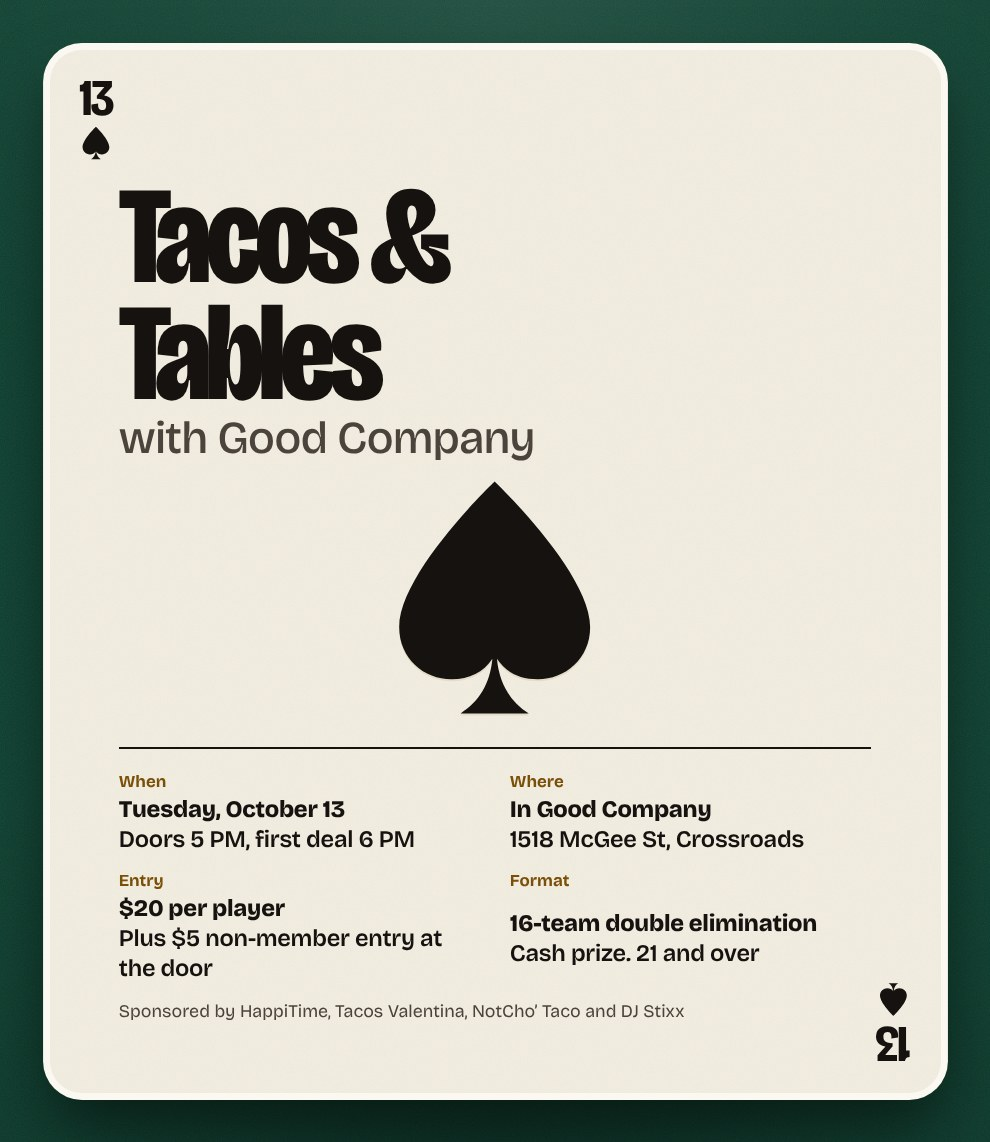
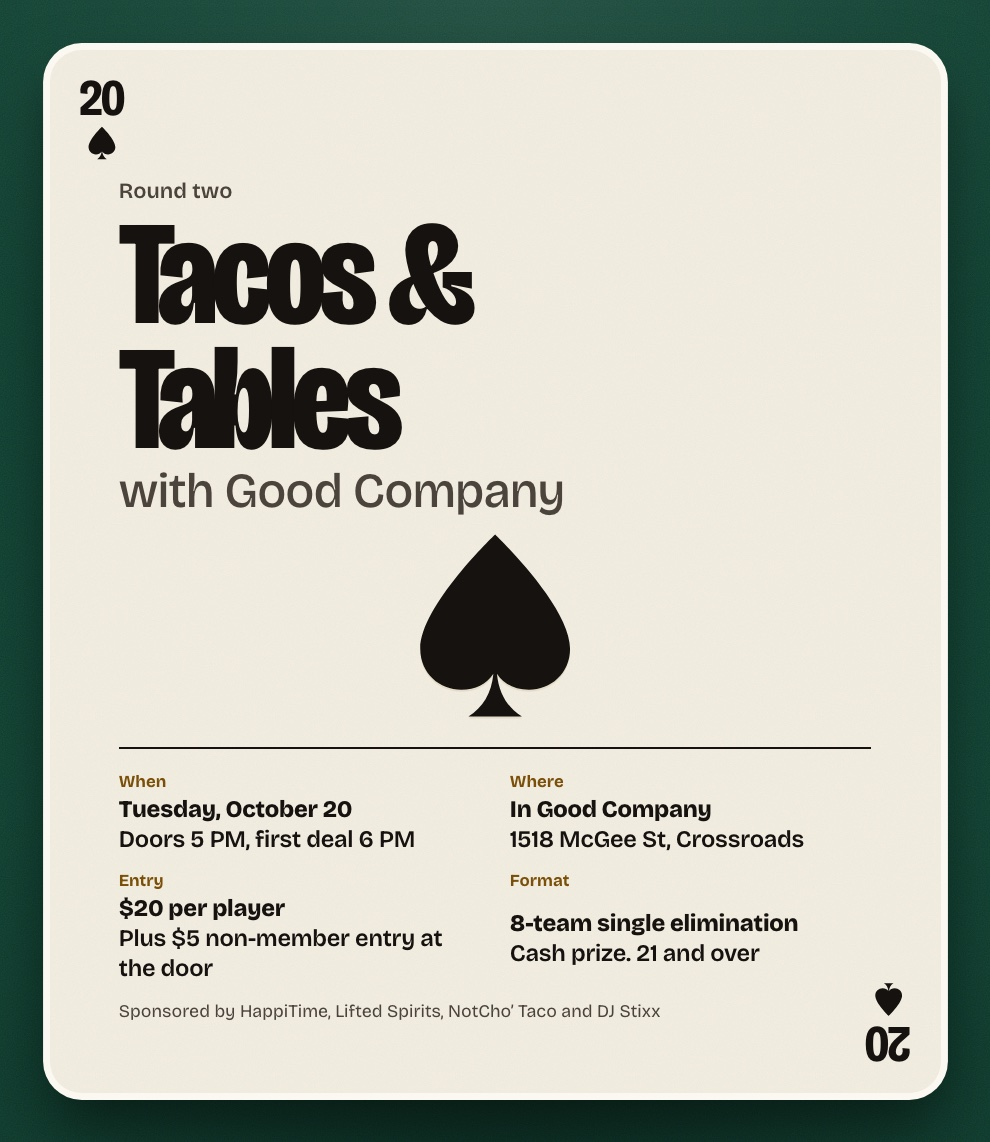
feat(directory): Tacos & Tables round two, Oct 20 — 8-team single elim, mobile + email-or-handle registration
- event.ts re-dated to Tue Oct 20 (registration closes end of Mon Oct 19), 8 teams on 4 tables,
  single elimination, sponsors HappiTime / Lifted Spirits / NotCho' Taco / DJ Stixx
- Register.tsx: mobile required; email OR an Instagram/TikTok handle required (payload key
  `social` replaces `instagram`); all dates read from event.ts; ticket stub shows Oct 20
- page.tsx + /sponsored-events card: copy, metadata and card-corner index updated
- cover.jpg / og.jpg re-rendered with the 20 of spades
- Apps Script companion (new version, same /exec URL) lives in
  My Assistant/outreach/2026-10-16_spades-oct20/registration-sheet-script.gs

Claude-Session: https://claude.ai/code/session_018ERENMA48hdRLapwesaor8

diff --git a/apps/directory/src/app/sponsored-events/tacos-and-tables/Register.tsx b/apps/directory/src/app/sponsored-events/tacos-and-tables/Register.tsx
@@ -59,8 +59,15 @@ export function Register() {
     const next: Errors = {};
     if (!v("first")) next.first = "Add your first name.";
     if (!v("last")) next.last = "Add your last name.";
-    if (!EMAIL.test(v("email"))) next.email = "Enter an email like name@example.com.";
+    // Mobile is required. Email OR a social handle is required, so we can reach you.
     if (digits(v("phone")).length !== 10) next.phone = "Enter a 10-digit mobile number.";
+    const social = v("social").replace(/^@+/, "");
+    if (v("email") && !EMAIL.test(v("email"))) {
+      next.email = "Enter an email like name@example.com, or leave it blank and add a handle.";
+    } else if (!v("email") && !social) {
+      next.email = "Add an email, or an Instagram or TikTok handle below. We need one to reach you.";
+      next.social = "Add a handle here, or an email above.";
+    }
     if (entry === "team") {
       if (!v("partnerFirst")) next.partnerFirst = "Add your partner's first name.";
       if (!v("partnerLast")) next.partnerLast = "Add your partner's last name.";
@@ -78,7 +85,7 @@ export function Register() {
 
     const partner = entry === "team" ? `${v("partnerFirst")} ${v("partnerLast")}` : "";
     const data = {
-      event: "Tacos & Tables with Good Company — Spades Tournament (2026-10-13)",
+      event: "Tacos & Tables with Good Company — Spades Tournament (2026-10-20)",
       entry_type: entry,
       team_name: entry === "team" ? v("teamName") : "",
       first: v("first"),
@@ -88,7 +95,7 @@ export function Register() {
       partner_first: entry === "team" ? v("partnerFirst") : "",
       partner_last: entry === "team" ? v("partnerLast") : "",
       partner_phone: entry === "team" ? prettyPhone(v("partnerPhone")) : "",
-      instagram: v("instagram"),
+      social: social ? "@" + social : "",
       players: entry === "team" ? 2 : 1,
       amount_due: amount,
       age_ack: true,
@@ -154,7 +161,7 @@ export function Register() {
       <div className="panel" id="register">
         <h2>Registration is closed</h2>
         <p className="lede">
-          Registration ended Monday, October 12. If a table opens up, walk-ups are taken at
+          Registration ended {EVENT.closesLabel}. If a table opens up, walk-ups are taken at
           the door from {EVENT.doors}, cash or Cash App, first come first served.
         </p>
         {EVENT.contactPhone && (
@@ -191,16 +198,16 @@ export function Register() {
               </ul>
               <p>
                 Put <strong>Spades {done.last}</strong> in the note so we can match it.
-                Your spot is confirmed once the payment lands. Unpaid registrations are
-                released after October 12. Non-members of {EVENT.venue} pay ${EVENT.nonMemberEntry}{" "}
-                entry at the door.
+                Your spot is confirmed once the payment lands and we&rsquo;ll let you know by
+                email or text. Unpaid registrations are released after {EVENT.closesShort}.
+                Non-members of {EVENT.venue} pay ${EVENT.nonMemberEntry} entry at the door.
               </p>
             </>
           ) : (
             <p>
               Watch your phone: payment instructions are on the way by text. Your spot
               is confirmed once the ${done.amount} lands. Unpaid registrations are released
-              after October 12.
+              after {EVENT.closesShort}.
             </p>
           )}
         </div>
@@ -217,8 +224,8 @@ export function Register() {
             <span>{EVENT.venue}, {EVENT.area}</span>
           </div>
           <div className="stub">
-            <small>Oct</small>
-            <strong>13</strong>
+            <small>{EVENT.monthShort}</small>
+            <strong>{EVENT.dayNumber}</strong>
           </div>
         </div>
 
@@ -255,7 +262,7 @@ export function Register() {
     <div className="panel" id="register">
       <div className="panel-head">
         <h2>Register</h2>
-        <p>Closes Monday, October 12</p>
+        <p>Closes {EVENT.closesLabel}</p>
       </div>
 
       <form ref={formRef} onSubmit={onSubmit} noValidate>
@@ -291,15 +298,22 @@ export function Register() {
           {field("first", "First name", { autoComplete: "given-name", required: true })}
           {field("last", "Last name", { autoComplete: "family-name", required: true })}
         </div>
+        {field("phone", "Mobile", {
+          type: "tel",
+          autoComplete: "tel",
+          inputMode: "tel",
+          placeholder: "(816) 555-0123",
+          required: true,
+          onBlur: (e) => (e.currentTarget.value = prettyPhone(e.currentTarget.value)),
+        })}
+        <p className="fine reach">One of these two, so we can reach you about the bracket:</p>
         <div className="row">
-          {field("email", "Email", { type: "email", autoComplete: "email", inputMode: "email", required: true })}
-          {field("phone", "Mobile", {
-            type: "tel",
-            autoComplete: "tel",
-            inputMode: "tel",
-            placeholder: "(816) 555-0123",
-            required: true,
-            onBlur: (e) => (e.currentTarget.value = prettyPhone(e.currentTarget.value)),
+          {field("email", "Email", { type: "email", autoComplete: "email", inputMode: "email" })}
+          {field("social", "Instagram or TikTok", {
+            placeholder: "@yourhandle",
+            autoCapitalize: "off",
+            spellCheck: false,
+            autoComplete: "off",
           })}
         </div>
 
@@ -325,8 +339,6 @@ export function Register() {
             </div>
           </div>
         )}
-
-        {field("instagram", "Instagram", { placeholder: "@yourhandle", autoCapitalize: "off", spellCheck: false }, true)}
 
         <div className={`check${errors.ageAck ? " invalid" : ""}`}>
           <label>
@@ -372,7 +384,7 @@ export function Register() {
         <p className="fine">
           Your details go to HappiTime and the night&rsquo;s hosts to run the bracket and
           match your payment. Spots are confirmed when the entry fee lands; unpaid
-          registrations are released after October 12.
+          registrations are released after {EVENT.closesShort}.
         </p>
       </form>
     </div>

diff --git a/apps/directory/src/app/sponsored-events/tacos-and-tables/event.ts b/apps/directory/src/app/sponsored-events/tacos-and-tables/event.ts
@@ -1,19 +1,24 @@
-// Tacos & Tables with Good Company — Spades tournament, Tuesday October 13, 2026.
-// Everything editable about the event lives here. The page, the form and the
-// confirmation copy all read from this file.
+// Tacos & Tables with Good Company — Spades tournament, round two.
+// Tuesday October 20, 2026. Everything editable about the event lives here. The
+// page, the form and the confirmation copy all read from this file.
 
 export const EVENT = {
   slug: "tacos-and-tables",
   title: "Tacos & Tables",
   subtitle: "with Good Company",
-  tagline: "Spades tournament night",
+  tagline: "Spades tournament night · round two",
   /** ISO timestamps with Central offset (CDT). */
-  starts: "2026-10-13T17:00:00-05:00",
-  ends: "2026-10-13T21:30:00-05:00",
-  /** Registration closes at the end of Monday, October 12 (Central). */
-  registrationCloses: "2026-10-13T00:00:00-05:00",
-  dateLabel: "Tuesday, October 13",
-  dateLong: "Tuesday, October 13, 2026",
+  starts: "2026-10-20T17:00:00-05:00",
+  ends: "2026-10-20T21:00:00-05:00",
+  /** Registration closes at the end of Monday, October 19 (Central). */
+  registrationCloses: "2026-10-20T00:00:00-05:00",
+  closesLabel: "Monday, October 19",
+  closesShort: "October 19",
+  dateLabel: "Tuesday, October 20",
+  dateLong: "Tuesday, October 20, 2026",
+  /** Card-corner index and ticket stub. */
+  dayNumber: "20",
+  monthShort: "Oct",
   doors: "5:00 PM",
   firstDeal: "6:00 PM",
   venue: "In Good Company",
@@ -23,10 +28,12 @@ export const EVENT = {
   entryFee: 20,
   /** In Good Company door cover for non-members, paid at the door to the venue. */
   nonMemberEntry: 5,
-  teamCap: 16,
-  tables: 8,
+  /** 8 teams, single elimination: three rounds, done in about two hours. */
+  teamCap: 8,
+  tables: 4,
+  formatLabel: "8-team single elimination",
   ageMin: 21,
-  sponsors: ["HappiTime", "Tacos Valentina", "NotCho' Taco", "DJ Stixx"],
+  sponsors: ["HappiTime", "Lifted Spirits", "NotCho' Taco", "DJ Stixx"],
 
   /**
    * Where to send the entry fee. Leave a handle empty to hide it.
@@ -53,14 +60,15 @@ export const EVENT = {
 /**
  * Where registrations are sent. Empty = preview mode (nothing is stored and
  * the confirmation screen says so). Set to the Google Apps Script web-app URL
- * from My Assistant/outreach/2026-10-09_tacos-and-tables-registration/.
+ * from My Assistant/outreach/2026-10-16_spades-oct20/ (same deployment as
+ * October 13, updated to a new version; the URL does not change).
  */
 export const REGISTRATION_ENDPOINT =
   "https://script.google.com/macros/s/AKfycbxwnqc49RUdlgyc6TZOtza7MZHXRIHy6FJPwg79dRwLzU0IpmSPgIx8oEY2tdqxKLvA/exec";
 
 export const RULES: { title: string; body?: string }[] = [
   {
-    title: "Registration closes Monday, October 12.",
+    title: `Registration closes ${EVENT.closesLabel}.`,
     body: `Entry is $${EVENT.entryFee} per player, paid in advance; a team of two pays $${EVENT.entryFee * 2}. Non-members of ${EVENT.venue} also pay a $${EVENT.nonMemberEntry} entry at the door.`,
   },
   {
@@ -68,8 +76,12 @@ export const RULES: { title: string; body?: string }[] = [
     body: "In that order, highest to lowest.",
   },
   {
-    title: "Dealing starts promptly at 6:00 PM.",
+    title: `Dealing starts promptly at ${EVENT.firstDeal}.`,
     body: "Be checked in and seated at your table before the first deal.",
+  },
+  {
+    title: "Single elimination.",
+    body: `${EVENT.teamCap} teams, three rounds. Lose a game and your night at the table is over; the bar is still open.`,
   },
   {
     title: "Every game has a 30-minute limit.",
@@ -77,7 +89,7 @@ export const RULES: { title: string; body?: string }[] = [
   },
   {
     title: "Games are best of three hands.",
-    body: "The semifinal and the grand final are best of five hands.",
+    body: "The semifinal and the final are best of five hands.",
   },
   {
     title: "Bidding is required on every hand.",

diff --git a/apps/directory/src/app/sponsored-events/tacos-and-tables/page.tsx b/apps/directory/src/app/sponsored-events/tacos-and-tables/page.tsx
@@ -14,14 +14,14 @@ const bricolage = Bricolage_Grotesque({
 });
 
 export const metadata: Metadata = {
-  title: "Tacos & Tables with Good Company — Spades Tournament, Oct 13",
+  title: "Tacos & Tables with Good Company — Spades Tournament, Oct 20",
   description:
-    "Spades tournament night at In Good Company in the Crossroads. Tuesday, October 13: doors 5 PM, first deal 6 PM. $20 per player plus $5 non-member entry, 16-team double-elimination bracket. Tacos from the NotCho' Taco truck outside, music by DJ Stixx. Register by October 12.",
+    "Spades tournament night at In Good Company in the Crossroads, round two. Tuesday, October 20: doors 5 PM, first deal 6 PM. $20 per player plus $5 non-member entry, 8-team single-elimination bracket, cash prize. Tacos from the NotCho' Taco truck outside, music by DJ Stixx, sponsored by Lifted Spirits. Register by October 19.",
   alternates: { canonical: "/sponsored-events/tacos-and-tables/" },
   openGraph: {
-    title: "Tacos & Tables with Good Company — Spades Tournament",
+    title: "Tacos & Tables with Good Company — Spades Tournament, round two",
     description:
-      "Tuesday 10.13 at In Good Company, Crossroads. Doors 5 PM, first deal 6 PM. $20 per player. Register by October 12.",
+      "Tuesday 10.20 at In Good Company, Crossroads. Doors 5 PM, first deal 6 PM. $20 per player, 8 teams, cash prize. Register by October 19.",
     url: "https://happitime.biz/sponsored-events/tacos-and-tables/",
     images: [{ url: "/sponsored-events/tacos-and-tables/og.jpg", width: 1200, height: 630 }],
   },
@@ -39,11 +39,11 @@ export default function TacosAndTablesPage() {
           <section className="top" aria-labelledby="title">
             <div className="card">
               <div className="index index-tl" aria-hidden="true">
-                <span>13</span>
+                <span>{EVENT.dayNumber}</span>
                 <Spade />
               </div>
               <div className="index index-br" aria-hidden="true">
-                <span>13</span>
+                <span>{EVENT.dayNumber}</span>
                 <Spade />
               </div>
 
@@ -81,7 +81,7 @@ export default function TacosAndTablesPage() {
                   <div>
                     <dt>Format</dt>
                     <dd>
-                      {EVENT.teamCap}-team double elimination, {EVENT.ageMin}+
+                      {EVENT.formatLabel}, {EVENT.ageMin}+
                     </dd>
                   </div>
                 </dl>
@@ -110,16 +110,17 @@ export default function TacosAndTablesPage() {
               <div>
                 <h3>{EVENT.firstDeal}</h3>
                 <p>
-                  First deal, on the dot, across {EVENT.tables} tables. Double elimination:
-                  lose once and you drop to the losers&rsquo; bracket, lose twice and you&rsquo;re
-                  out. Solo players are paired up at check-in.
+                  First deal, on the dot, across {EVENT.tables} tables. Single elimination:{" "}
+                  {EVENT.teamCap} teams, three rounds, lose a game and you&rsquo;re out of the
+                  bracket. Solo players are paired up at check-in.
                 </p>
               </div>
               <div>
-                <h3>The finals</h3>
+                <h3>The final</h3>
                 <p>
-                  Semifinal and grand final are best of five hands. The bracket is capped
-                  at {EVENT.teamCap} teams; after that, you&rsquo;re on the waitlist.
+                  Semifinal and final are best of five hands; the whole thing runs about two
+                  hours. The bracket is capped at {EVENT.teamCap} teams; after that, you&rsquo;re
+                  on the waitlist.
                 </p>
               </div>
             </div>

diff --git a/apps/directory/src/app/sponsored-events/page.tsx b/apps/directory/src/app/sponsored-events/page.tsx
@@ -45,19 +45,20 @@ const EVENTS: SponsoredEvent[] = [
     slug: "tacos-and-tables",
     title: "Tacos & Tables",
     edition: "with Good Company",
-    hosts: "Spades tournament night",
-    partners: ["HappiTime", "Tacos Valentina", "NotCho' Taco", "DJ Stixx"],
-    starts: "2026-10-13T17:00:00-05:00",
-    ends: "2026-10-13T21:30:00-05:00",
-    dateLabel: "Tuesday, October 13",
+    hosts: "Spades tournament night · round two",
+    partners: ["HappiTime", "Lifted Spirits", "NotCho' Taco", "DJ Stixx"],
+    // Round one ran Tuesday October 13 at the same venue.
+    starts: "2026-10-20T17:00:00-05:00",
+    ends: "2026-10-20T21:00:00-05:00",
+    dateLabel: "Tuesday, October 20",
     timeLabel: "Doors 5 PM, first deal 6 PM",
     area: "Crossroads",
     access: "Open registration",
     cta: "Register your spot",
     blurb:
-      "A 16-team double-elimination Spades tournament at In Good Company. $20 per player, solo or with a partner. Tacos from the NotCho' Taco truck outside, music by DJ Stixx. Register by October 12.",
+      "Round two. An 8-team single-elimination Spades tournament at In Good Company, three rounds and done in about two hours. $20 per player, solo or with a partner, cash prize for the winning team. Tacos from the NotCho' Taco truck outside, music by DJ Stixx. Register by October 19.",
     image: "/sponsored-events/tacos-and-tables/cover.jpg",
-    imageAlt: "A playing card reading Tacos & Tables, with the 13 of spades in the corners.",
+    imageAlt: "A playing card reading Tacos & Tables, with the 20 of spades in the corners.",
   },
   {
     slug: "social-life-brunch",

diff --git a/apps/directory/src/app/sponsored-events/tacos-and-tables/tournament.css b/apps/directory/src/app/sponsored-events/tacos-and-tables/tournament.css
@@ -309,6 +309,7 @@
 .tnt .submit:focus-visible { outline: 3px solid var(--stock); outline-offset: 3px; }
 .tnt .submit[disabled] { opacity: 0.6; cursor: progress; transform: none; }
 .tnt .fine { margin: 0; font-size: 13px; line-height: 1.45; color: rgba(244, 239, 227, 0.72); }
+.tnt .fine.reach { margin: 4px 0 -4px; font-weight: 700; color: rgba(244, 239, 227, 0.9); }
 
 /* Done state */
 .tnt .done { display: grid; gap: 18px; }
